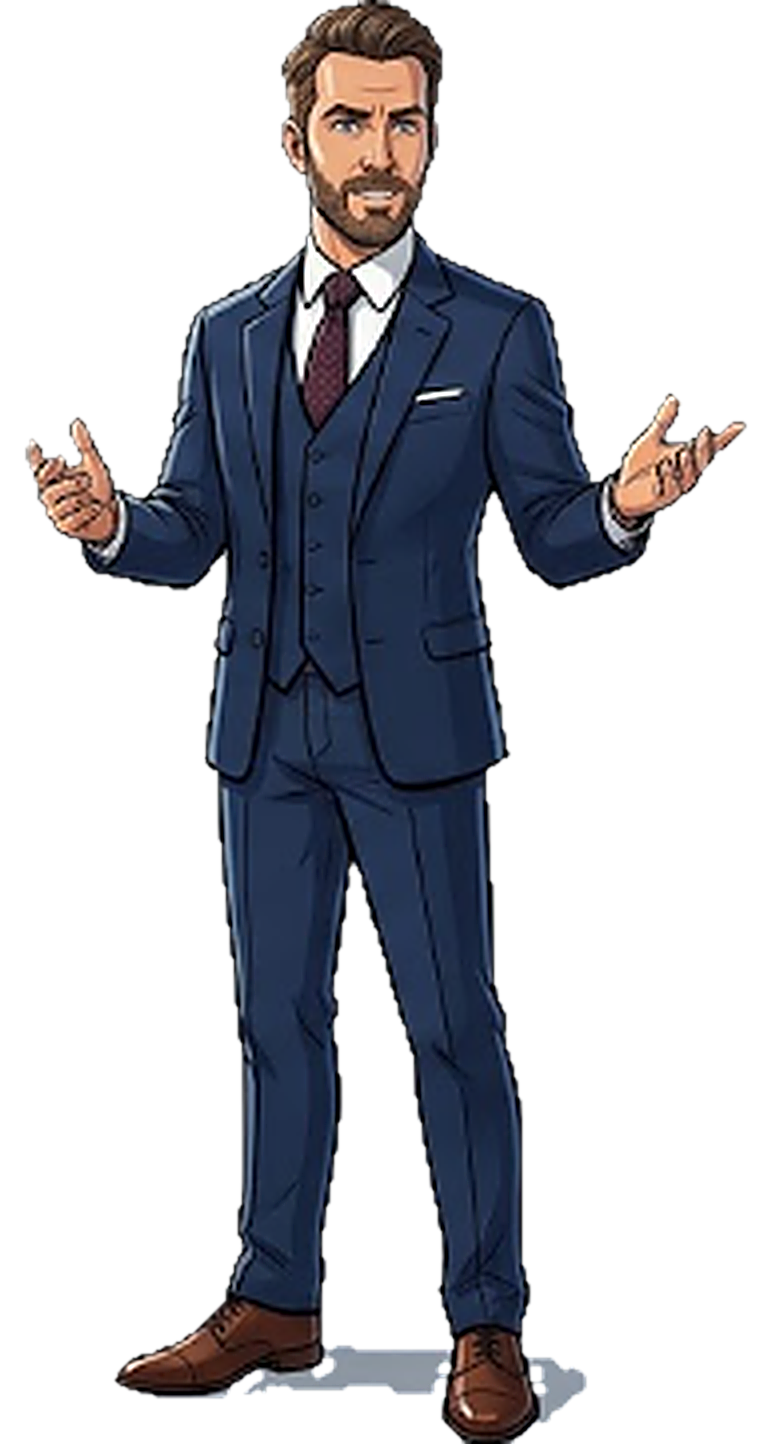
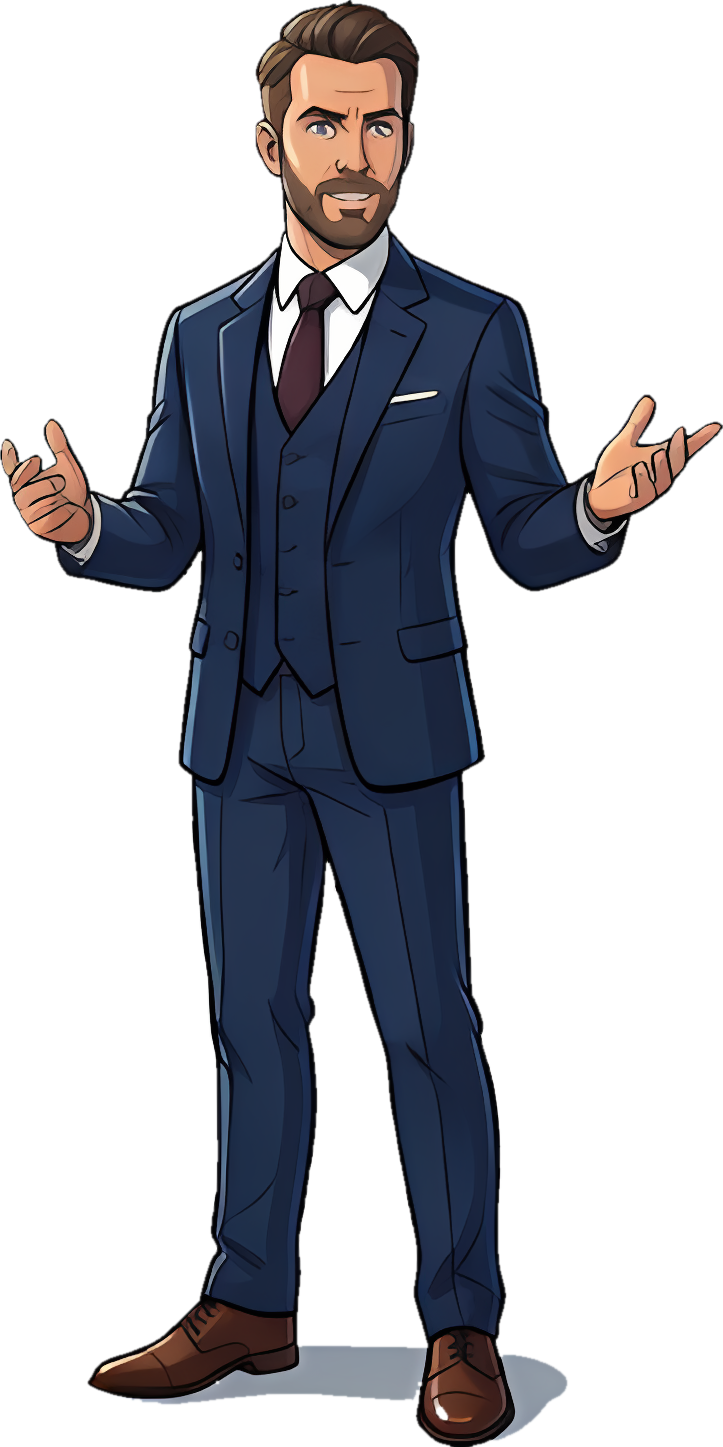
Presenter: still character (no voice-driven motion), AI-upscaled artwork, captions sized around it
Claude-Session: https://claude.ai/code/session_014CAikYYqvybEcn2YbjX6un

diff --git a/marketing/video/player.html b/marketing/video/player.html
@@ -31,7 +31,8 @@ html, body { width:1080px; height:1920px; overflow:hidden; background:var(--canv
   line-height:1.25; text-align:center; max-width:100%; }
 .caption .on { color:var(--mint); }
 /* presenter mode: a character on the right "explains" while the chart moves */
-body.host .caption { right:430px; }
+body.host .caption { right:530px; left:60px; }
+body.host .caption span.box { font-size:50px; padding:16px 24px; }
 .presenter { position:absolute; top:1205px; height:1100px; transform-origin:50% 100%; will-change:transform, opacity; opacity:0; }
 .tag { position:absolute; left:80px; top:240px; font-size:26px; color:var(--muted); background:rgba(22,33,45,.8); border:2px solid var(--line); border-radius:30px; padding:8px 20px; }
 .rows { background:var(--card); border-radius:30px; border:3px solid var(--line); overflow:hidden; }
@@ -93,7 +94,7 @@ window.load = (spec) => {
   TIMES = spec.scenes.map((s) => { const st = t; t += s.duration; return [st, t]; });
   const stage = document.getElementById("stage");
   stage.innerHTML = spec.scenes.map((s, i) => `<div class="layer" id="s${i}">${build(s, i)}</div>`).join("") +
-    (spec.presenter ? `<img class="presenter" id="pfront" src="${spec.presenter.front}" style="right:-40px"><img class="presenter" id="pside" src="${spec.presenter.side}" style="right:-6px">` : "") +
+    (spec.presenter ? `<img class="presenter" id="pfront" src="${spec.presenter.front}" style="right:0px"><img class="presenter" id="pside" src="${spec.presenter.side}" style="right:-6px">` : "") +
     `<div class="caption"><span class="box" id="cap"></span></div>${spec.tag ? `<div class="tag">${esc(spec.tag)}</div>` : ""}`;
   if (spec.presenter) document.body.classList.add("host");
   const fit = () => spec.scenes.forEach((s, i) => { if (s.type !== "stat") return; // size the number for its final value
@@ -252,16 +253,14 @@ window.render = (t) => {
         e.style.opacity = ease((local - st) / 0.3); e.style.transform = `translateY(${(1 - ease((local - st) / 0.35)) * 30}px)`; });
     }
   });
-  // presenter: front view on the first and last scene, side view (gesturing at the chart) in between; it sways and
-  // bobs with the loudness of the voice, so it looks like it is talking
+  // presenter: front view on the first and last scene, side view (gesturing at the chart) in between.
+  // It stands still (a smooth cross-fade between the two views); the chart is what moves.
   if (SPEC.presenter) {
     const si = Math.max(0, TIMES.findIndex(([a, b]) => t >= a && t < b)), last = SPEC.scenes.length - 1;
     const pose = (j) => SPEC.scenes[j].pose || (j === 0 || j === last ? "front" : "side");
-    const cur = pose(si), prev = si > 0 ? pose(si - 1) : cur, k = (SPEC.env || [])[Math.round(t * 30)] || 0;
-    const sw = cur === prev ? 1 : ease((t - TIMES[si][0]) / 0.25);
-    const tr = `translateY(${(-k * 14).toFixed(1)}px) rotate(${(Math.sin(t * 1.9) * 0.6 + k * 1.3).toFixed(2)}deg) scale(${(1 + 0.008 * Math.sin(t * 1.3)).toFixed(4)})`;
-    ["front", "side"].forEach((pz) => { const im = document.getElementById("p" + pz);
-      im.style.opacity = pz === cur ? sw : pz === prev ? 1 - sw : 0; im.style.transform = tr; });
+    const cur = pose(si), prev = si > 0 ? pose(si - 1) : cur;
+    const sw = cur === prev ? 1 : ease((t - TIMES[si][0]) / 0.4);
+    ["front", "side"].forEach((pz) => { document.getElementById("p" + pz).style.opacity = pz === cur ? sw : pz === prev ? 1 - sw : 0; });
   }
   const tg = document.querySelector(".tag"); if (tg) tg.style.opacity = SPEC.tagFrom ? clamp((t - SPEC.tagFrom) / 0.4) : 1;
   // Captions: the line being spoken, a few words at a time, current word in mint.

diff --git a/marketing/video/render.py b/marketing/video/render.py
@@ -125,19 +125,6 @@ def main():
         with wave.open(str(track), "wb") as W:
             W.setnchannels(1); W.setsampwidth(2); W.setframerate(tts.RATE); W.writeframes(pcm.tobytes())
 
-    # 2c. Presenter: loudness of the voice per video frame, so the character moves while it talks.
-    if spec.get("presenter"):
-        import array as _a
-        with wave.open(str(track)) as r:
-            pcm = _a.array("h", r.readframes(r.getnframes()))
-        hop = tts.RATE // FPS
-        rms = [(sum(x * x for x in pcm[i:i + hop]) / max(1, len(pcm[i:i + hop]))) ** 0.5 for i in range(0, len(pcm), hop)]
-        top = sorted(rms)[int(len(rms) * 0.95)] or 1
-        env, e = [], 0.0
-        for v in rms:  # fast attack, slow release
-            v = min(1.0, v / top); e = v if v > e else e * 0.82 + v * 0.18; env.append(round(e, 3))
-        spec["env"] = env
-
     # 3. Frames -> ffmpeg.
     frames = int(round(total * FPS))
     mp4 = out / f"{vid}.mp4"
